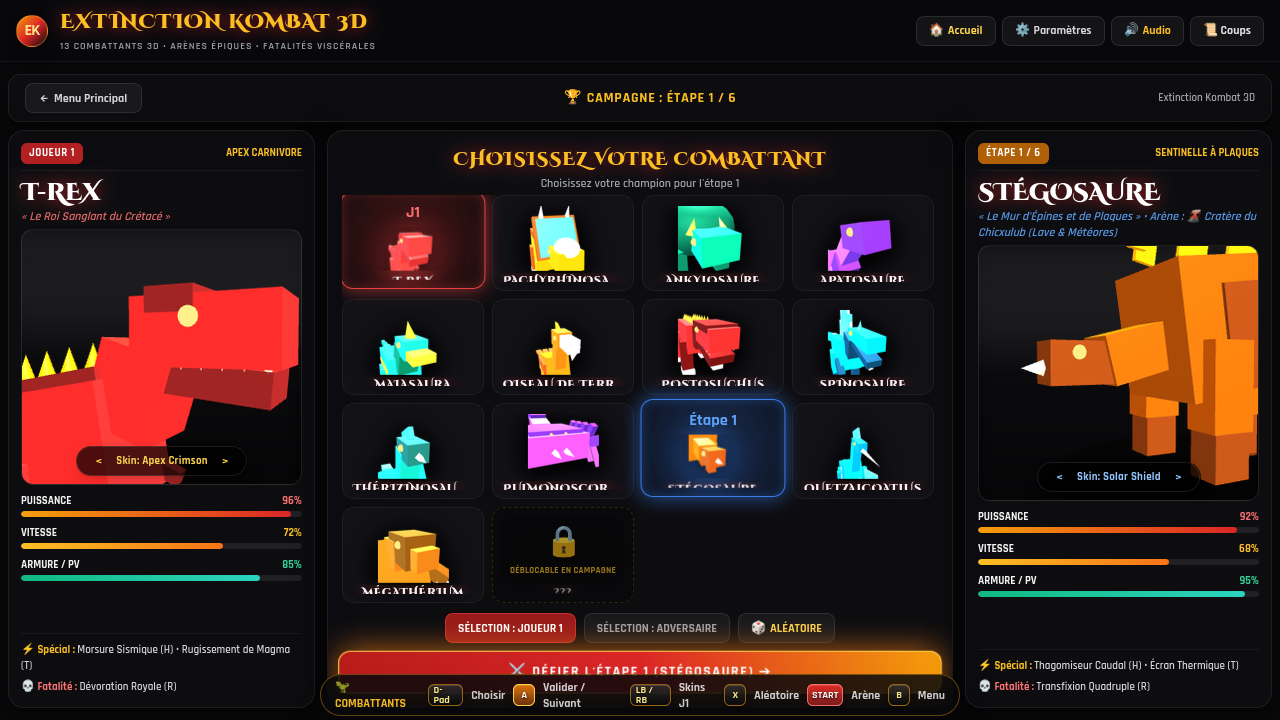
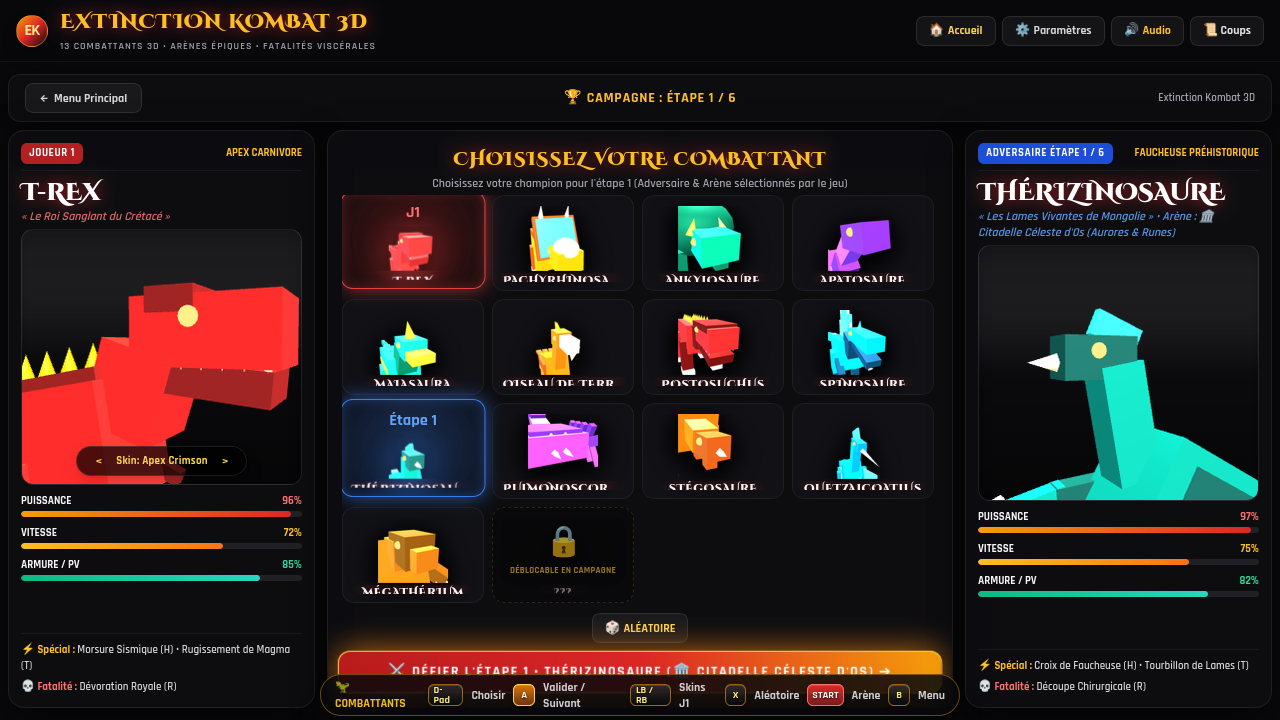
Amélioration et balance de la campagne

diff --git a/js/menus/select-screen.js b/js/menus/select-screen.js
@@ -688,7 +688,21 @@ function initRosterUI() {
             card.addEventListener('click', () => {
                 sfx.playHit(false);
                 if (gameMode === 'campaign') {
+                    if (p1ChoiceIndex === idx) {
+                        // Cliquer sur le combattant déjà sélectionné lance immédiatement le combat
+                        startMatch();
+                        return;
+                    }
                     p1ChoiceIndex = idx;
+                    // S'assurer que l'adversaire de l'étape n'est pas le même que le personnage choisi
+                    if (campaignStage < 6 && campaignOpponents && campaignOpponents[campaignStage - 1] === idx) {
+                        for (let k = 0; k < DINO_ROSTER.length; k++) {
+                            if (k !== idx && !DINO_ROSTER[k].isBoss && (!DINO_ROSTER[k].isUnlockable || isFighterUnlocked(DINO_ROSTER[k].id))) {
+                                campaignOpponents[campaignStage - 1] = k;
+                                break;
+                            }
+                        }
+                    }
                 } else {
                     if (activeSelectSlot === 1) {
                         p1ChoiceIndex = idx;
@@ -699,6 +713,13 @@ function initRosterUI() {
                     }
                 }
                 updateSelectScreenUI();
+            });
+
+            card.addEventListener('dblclick', () => {
+                if (gameMode === 'campaign') {
+                    p1ChoiceIndex = idx;
+                    startMatch();
+                }
             });
         }
 
@@ -734,23 +755,26 @@ function updateSelectScreenUI() {
         }
         if (promptText) {
             promptText.textContent = campaignStage === 6
-                ? "Ultime épreuve d'Extinction ! Choisissez votre champion"
-                : `Choisissez votre champion pour l'étape ${campaignStage}`;
+                ? "Ultime épreuve d'Extinction ! Cliquez sur votre champion pour affronter Drak'Zul"
+                : `Choisissez votre champion pour l'étape ${campaignStage} (Adversaire & Arène sélectionnés par le jeu)`;
         }
+        if (slot1Btn) slot1Btn.classList.add('hidden');
         if (slot2Btn) slot2Btn.classList.add('hidden');
-        if (p2SkinSelector && campaignStage === 6) p2SkinSelector.classList.add('hidden');
-        else if (p2SkinSelector) p2SkinSelector.classList.remove('hidden');
+        if (p2SkinSelector) p2SkinSelector.classList.add('hidden');
 
         if (p2TagLabel) {
             if (campaignStage === 6) {
                 p2TagLabel.textContent = "BOSS DE FIN";
                 p2TagLabel.className = "px-2 py-0.5 rounded-md bg-gradient-to-r from-red-600 to-amber-500 text-white text-[11px] font-black uppercase tracking-wider animate-pulse";
             } else {
-                p2TagLabel.textContent = `Étape ${campaignStage} / 6`;
-                p2TagLabel.className = "px-2 py-0.5 rounded-md bg-amber-600/80 text-white text-[11px] font-black uppercase tracking-wider";
+                p2TagLabel.textContent = `ADVERSAIRE ÉTAPE ${campaignStage} / 6`;
+                p2TagLabel.className = "px-2 py-0.5 rounded-md bg-blue-700 text-white text-[11px] font-black uppercase tracking-wider";
             }
         }
     } else {
+        if (slot1Btn) slot1Btn.classList.remove('hidden');
+        if (slot2Btn) slot2Btn.classList.remove('hidden');
+        if (p2SkinSelector) p2SkinSelector.classList.remove('hidden');
         if (modeBadge) {
             modeBadge.innerHTML = gameMode === 'pvp'
                 ? `<span>👥 2 JOUEURS (1 VS 1)</span>`
@@ -822,9 +846,12 @@ function updateSelectScreenUI() {
     const btnGoToArena = document.getElementById('btnGoToArena');
     if (btnGoToArena) {
         if (gameMode === 'campaign') {
+            const themedArenaId = typeof getThemedArenaForFighter === 'function' ? getThemedArenaForFighter(p2.id) : 'volcano';
+            const arenaObj = typeof ARENAS !== 'undefined' && ARENAS[themedArenaId];
+            const arenaLabel = arenaObj ? arenaObj.label.split('(')[0].trim() : themedArenaId;
             btnGoToArena.innerHTML = campaignStage === 6
                 ? `🔥 DÉFIER LE BOSS DRAK'ZUL ➔`
-                : `⚔ DÉFIER L'ÉTAPE ${campaignStage} (${p2.name}) ➔`;
+                : `⚔ DÉFIER L'ÉTAPE ${campaignStage} • ${p2.name} (${arenaLabel}) ➔`;
             btnGoToArena.className = 'w-full py-2.5 px-6 rounded-xl bg-gradient-to-r from-red-700 via-red-600 to-amber-500 hover:from-red-600 hover:to-amber-400 text-white font-black text-xs sm:text-sm uppercase tracking-widest shadow-lg border border-amber-300 finish-pulse transition';
         } else {
             btnGoToArena.innerHTML = `CHOISIR L'ARÈNE DE KOMBAT ➔`;
@@ -859,10 +886,17 @@ function updateSelectScreenUI() {
     });
 
     if (slot1Btn && slot2Btn) {
-        if (activeSelectSlot === 1 || gameMode === 'campaign') {
+        if (gameMode === 'campaign') {
+            slot1Btn.classList.add('hidden');
+            slot2Btn.classList.add('hidden');
+        } else if (activeSelectSlot === 1) {
+            slot1Btn.classList.remove('hidden');
+            slot2Btn.classList.remove('hidden');
             slot1Btn.className = 'px-3 py-1.5 rounded-lg bg-red-800 text-xs font-bold text-white uppercase shadow-sm border border-red-500/50';
             slot2Btn.className = 'px-3 py-1.5 rounded-lg bg-white/5 border border-white/10 text-xs font-bold text-zinc-400 uppercase';
         } else {
+            slot1Btn.classList.remove('hidden');
+            slot2Btn.classList.remove('hidden');
             slot1Btn.className = 'px-3 py-1.5 rounded-lg bg-white/5 border border-white/10 text-xs font-bold text-zinc-400 uppercase';
             slot2Btn.className = 'px-3 py-1.5 rounded-lg bg-blue-800 text-xs font-bold text-white uppercase shadow-sm border border-blue-500/50';
         }

diff --git a/js/core/match.js b/js/core/match.js
@@ -15,6 +15,15 @@ function startMatch() {
             p2Skin = 0;
             currentArena = 'dragonlair';
         } else if (campaignOpponents && campaignOpponents[campaignStage - 1] !== undefined) {
+            // S'assurer que l'adversaire de l'étape n'est pas le combattant choisi par le joueur
+            if (campaignOpponents[campaignStage - 1] === p1ChoiceIndex) {
+                for (let k = 0; k < DINO_ROSTER.length; k++) {
+                    if (k !== p1ChoiceIndex && !DINO_ROSTER[k].isBoss && (!DINO_ROSTER[k].isUnlockable || isFighterUnlocked(DINO_ROSTER[k].id))) {
+                        campaignOpponents[campaignStage - 1] = k;
+                        break;
+                    }
+                }
+            }
             p2Dino = DINO_ROSTER[campaignOpponents[campaignStage - 1]];
             p2Skin = 0;
             currentArena = typeof getThemedArenaForFighter === 'function' ? getThemedArenaForFighter(p2Dino.id) : 'volcano';
@@ -27,10 +36,9 @@ function startMatch() {
         if (!currentArena) currentArena = 'volcano';
     }
 
-    // Gestion de la difficulté IA (progression accessible en campagne pour vaincre le boss équitablement)
+    // Difficulté IA en campagne : calibrée sur 'easy' pour un parcours exaltant et un boss Drak'Zul battable
     if (gameMode === 'campaign') {
-        if (campaignStage <= 3) aiDifficulty = 'easy';
-        else aiDifficulty = 'normal';
+        aiDifficulty = 'easy';
     } else {
         const aiDiffEl = document.getElementById('aiDifficulty');
         if (aiDiffEl) aiDifficulty = aiDiffEl.value;
@@ -96,13 +104,19 @@ function applyDamage(attacker, defender, rawDamage, isHeavy, label = '', isLocke
     if (defender.isDead) return;
 
     let finalDamage = rawDamage;
+    // Avantage joueur contre le boss en campagne pour rendre le combat palpitant et accessible
+    if (attacker.isP1 && gameMode === 'campaign' && defender.dino && defender.dino.isBoss) {
+        finalDamage = Math.round(finalDamage * 1.35);
+    }
+
     if (defender.isBlocking && !defender.isDizzy && !isLockedXrayHit && !defender.isXrayTarget) {
-        finalDamage = Math.max(8, Math.round(rawDamage * 0.22));
+        finalDamage = Math.max(8, Math.round(finalDamage * 0.22));
         sfx.playHit(false);
         spawnFloatingPopup(defender.x, '🛡 BLOQUÉ !', '#fbbf24');
     } else {
         sfx.playHit(isHeavy);
-        defender.hitStun = isLockedXrayHit ? 1.2 : (isHeavy ? 0.36 : 0.2);
+        const isBossDef = defender.dino && defender.dino.isBoss;
+        defender.hitStun = isLockedXrayHit ? 1.2 : (isHeavy ? (isBossDef ? 0.48 : 0.36) : (isBossDef ? 0.32 : 0.2));
         // Ne pas repousser les personnages pendant que le X-Ray verrouille leurs positions
         if (!isLockedXrayHit && !xrayLockPositions) {
             defender.vx = attacker.facing * (isHeavy ? 8.5 : 4.5);

diff --git a/js/core/ai.js b/js/core/ai.js
@@ -4,23 +4,27 @@ function updateAI(ai, target, dt) {
 
     aiDecisionCooldown -= dt;
     const dist = Math.abs(ai.x - target.x);
-    const aggr = aiDifficulty === 'brutal' ? 0.08 : (aiDifficulty === 'normal' ? 0.045 : 0.02);
+    const isBoss = ai.dino && ai.dino.isBoss;
+    const aggr = isBoss ? 0.02 : (aiDifficulty === 'brutal' ? 0.08 : (aiDifficulty === 'normal' ? 0.045 : 0.02));
 
     if (dist > 3.1) {
         ai.isBlocking = false;
-        ai.x += ai.facing * ai.dino.walkSpeed * dt * (aiDifficulty === 'easy' ? 0.7 : 0.95);
+        const speedScale = isBoss ? 0.6 : (aiDifficulty === 'easy' ? 0.7 : 0.95);
+        ai.x += ai.facing * ai.dino.walkSpeed * dt * speedScale;
         ai.action = 'walk';
 
-        if (dist > 5.0 && Math.random() < aggr * 0.45 && aiDecisionCooldown <= 0) {
+        const rangedChance = isBoss ? 0.015 : aggr * 0.45;
+        if (dist > 5.0 && Math.random() < rangedChance && aiDecisionCooldown <= 0) {
             const availRanged = ['special2', 'special'].filter(m => !ai.cooldowns || ai.cooldowns[m] <= 0);
             if (availRanged.length > 0) {
                 const pick = availRanged[Math.floor(Math.random() * availRanged.length)];
                 ai.startAttack(pick);
-                aiDecisionCooldown = 0.7;
+                aiDecisionCooldown = isBoss ? 1.3 : 0.7;
             }
         }
     } else {
-        if (target.actionDuration > 0 && Math.random() < (aiDifficulty === 'brutal' ? 0.55 : 0.25)) {
+        const blockChance = isBoss ? 0.05 : (aiDifficulty === 'brutal' ? 0.55 : 0.25);
+        if (target.actionDuration > 0 && Math.random() < blockChance) {
             ai.isBlocking = true;
             ai.action = 'crouch';
             return;
@@ -28,8 +32,8 @@ function updateAI(ai, target, dt) {
         ai.isBlocking = false;
 
         if (aiDecisionCooldown <= 0) {
-            // Le X-Ray Fatal requiert strictement une rage à 100%
-            if (ai.rage >= 100 && (!ai.cooldowns || ai.cooldowns['xray'] <= 0) && Math.random() < 0.6) {
+            // Le boss ne déclenche pas de cinématique X-Ray pour ne pas frustrer le joueur
+            if (!isBoss && ai.rage >= 100 && (!ai.cooldowns || ai.cooldowns['xray'] <= 0) && Math.random() < 0.6) {
                 executeXRayMove(ai, target);
                 if (ai.cooldowns && ai.maxCooldowns) ai.cooldowns['xray'] = ai.maxCooldowns['xray'];
             } else {
@@ -46,7 +50,7 @@ function updateAI(ai, target, dt) {
                     ai.startAttack(chosen);
                 }
             }
-            aiDecisionCooldown = aiDifficulty === 'brutal' ? 0.28 : (aiDifficulty === 'normal' ? 0.52 : 0.85);
+            aiDecisionCooldown = isBoss ? 1.15 : (aiDifficulty === 'brutal' ? 0.28 : (aiDifficulty === 'normal' ? 0.52 : 0.85));
         }
     }
 }

diff --git a/js/fighters/dragon.js b/js/fighters/dragon.js
@@ -15,9 +15,9 @@ registerBoss({
     accentColor: 0xf97316,
     cssPrimary: '#ef4444',
     scale: 1.32,
-    stats: { pow: 84, spd: 70, def: 75 },
-    maxHp: 1080,
-    walkSpeed: 7.2,
+    stats: { pow: 48, spd: 55, def: 40 },
+    maxHp: 680,
+    walkSpeed: 5.2,
     special1Name: 'Souffle Infernale (H)',
     special2Name: 'Cataclysme Éruptif (T)',
     fatalityName: 'Incinération Suprême (R)',
@@ -31,7 +31,7 @@ registerBoss({
     ]
 }, {
     animBaseHipsY: 2.1,
-    attackReach: 3.85,
+    attackReach: 3.15,
 
     // Spécial 1 (H) : Souffle de feu draconique
     onSpecial(attacker, defender, dist, basePow) {
@@ -39,9 +39,13 @@ registerBoss({
         spawn3DProjectile(attacker, 'dragon_fire');
     },
 
-    // Spécial 2 (T) : Cataclysme de flammes et secousse tellurique
+    // Spécial 2 (T) : Cataclysme de flammes de portée modérée
     onSpecial2(attacker, defender, dist, basePow) {
-        special2SeismicQuake(attacker, defender, dist, Math.round(basePow * 0.9));
+        screenShake = 0.35;
+        spawn3DBloodAndBones(defender.x, 0.3, 10, true);
+        if (dist < 4.2) {
+            applyDamage(attacker, defender, Math.round(basePow * 0.8), true, 'CATACLYSME DRACONIQUE !');
+        }
     },
 
     // Construction du modèle 3D articulé du Dragon

diff --git a/js/core/input.js b/js/core/input.js
@@ -21,6 +21,18 @@ window.addEventListener('keydown', (e) => {
     if (e.code === 'KeyW' || e.code === 'KeyZ' || (gameMode !== 'pvp' && e.code === 'ArrowUp')) flashArcadeButton('uiBtnUp', true);
     if (e.code === 'KeyS' || (gameMode !== 'pvp' && e.code === 'ArrowDown')) flashArcadeButton('uiBtnDown', true);
 
+    // Validation au clavier (Entrée / Espace) sur l'écran de sélection
+    if (matchState === 'select' && (e.code === 'Enter' || e.code === 'Space')) {
+        e.preventDefault();
+        sfx.playHit(false);
+        if (gameMode === 'campaign') {
+            startMatch();
+        } else {
+            openArenaChooser();
+        }
+        return;
+    }
+
     // Bloquer tous les contrôles si une cinématique X-Ray est en cours
     if (xrayCinematicTimer > 0) return;
 
@@ -659,8 +671,9 @@ function handleGamepadSelectScreen(pad, pad2, dt) {
                 } else {
                     openArenaChooser();
                 }
+            } else if (gameMode === 'campaign') {
+                startMatch();
             } else {
-                // En solo (Campagne, Vs IA, Entraînement) -> direct vers Arène
                 openArenaChooser();
             }
         }

diff --git a/js/menus/main-menu.js b/js/menus/main-menu.js
@@ -168,6 +168,16 @@ function startCampaignMode() {
     }
     campaignOpponents = available.slice(0, 5);
 
+    // S'assurer que le premier adversaire n'est pas le même que le personnage actuel de J1
+    if (campaignOpponents[0] === p1ChoiceIndex) {
+        for (let k = 0; k < available.length; k++) {
+            if (available[k] !== p1ChoiceIndex) {
+                campaignOpponents[0] = available[k];
+                break;
+            }
+        }
+    }
+
     goToSelectScreen();
 }
 

diff --git a/js/core/effects.js b/js/core/effects.js
@@ -62,8 +62,8 @@ function spawn3DProjectile(owner, kind) {
         owner,
         mesh,
         kind,
-        vx: dir * (kind === 'sonic' ? 19.5 : (kind === 'dragon_fire' ? 18.0 : 15.5)),
-        damage: kind === 'xray_wave' ? 165 : (kind === 'dragon_fire' ? 120 : 85),
+        vx: dir * (kind === 'sonic' ? 19.5 : (kind === 'dragon_fire' ? 11.5 : 15.5)),
+        damage: kind === 'xray_wave' ? 165 : (kind === 'dragon_fire' ? 42 : 85),
         life: 1.5
     });
 }

diff --git a/js/menus/arena-chooser.js b/js/menus/arena-chooser.js
@@ -227,6 +227,10 @@ function updateArenaHeroDetails() {
 }
 
 function openArenaChooser() {
+    if (gameMode === 'campaign') {
+        startMatch();
+        return;
+    }
     matchState = 'arena_select';
     document.getElementById('mainMenu').classList.add('hidden');
     document.getElementById('selectScreen').classList.add('hidden');
